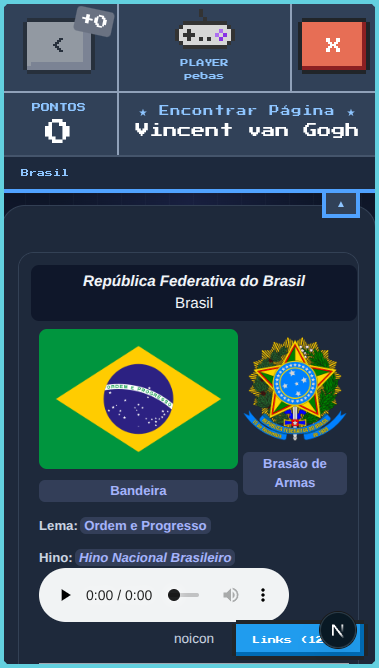
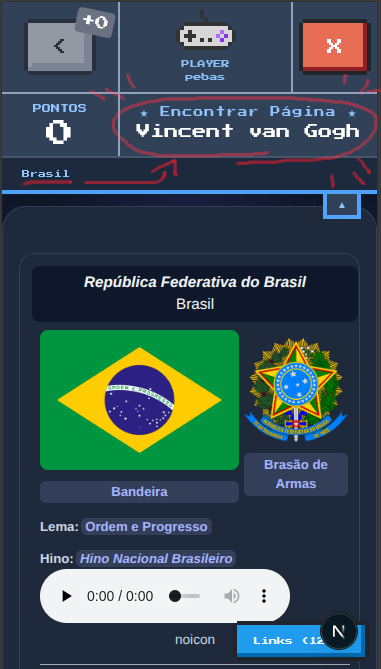
TUTORIAL BABY

diff --git a/app/page.tsx b/app/page.tsx
@@ -9,6 +9,13 @@ import { arrPaginasObjetivo } from "./dados/paginasObjetivo";
 import Footer from "./components/Footer";
 import Image from "next/image";
 
+const imagensTutorial = [
+    "/tutorialImagens/tuto_1.png",
+    "/tutorialImagens/tuto_2.png",
+    "/tutorialImagens/tuto_3.png",
+    "/tutorialImagens/tuto_4.png",
+];
+
 // ==== SEED DO DIA NO FUSO DE BRASÍLIA ==== //
 function seedDeHoje() {
     const d = new Date(new Date().getTime() - 3 * 60 * 60 * 1000);
@@ -75,6 +82,7 @@ export default function HomePage() {
                                     {desafio.objetivo}
                                 </p>
                             </div>
+                            dark:border-white
                             <div className="mt-4 mx-auto">
                                 <Link href="/diario" className="nes-btn is-primary text-[24px] md:text-[24px]">
                                     JOGAR!!
@@ -84,89 +92,88 @@ export default function HomePage() {
                     )}
 
                     {/* COMO JOGAR — só para não logados */}
-                    <div className="nes-container dark:bg-[#212529] dark:border-white" style={{ padding: "1.25rem" }}>
+                    <div className="nes-container  flex flex-col text-[12px] dark:bg-[#212529] dark:border-white">
+                        {/* TITULO COMO JOGAR */}
                         <p className="text-slate-500 dark:text-slate-400 text-[7px] text-center mb-4">COMO JOGAR</p>
-                        <div className="flex flex-col gap-4">
-                            <div className="flex flex-col">
-                                <div className="flex items-start gap-3">
-                                    <span className="text-yellow-500 dark:text-yellow-400 text-[10px] shrink-0">
-                                        1.
-                                    </span>
-                                    <p className="text-slate-800 dark:text-white text-[8px] leading-relaxed">
-                                        Você começa em uma página da Wikipedia e precisa chegar em outra.
+
+                        {/* IMAGENS */}
+                        <div className="grid col-span-3 mx-auto gap-4" style={{ maxWidth: "380px" }}>
+                            <figure className="flex flex-col ">
+                                <figcaption>
+                                    <p className="text-slate-800 dark:text-white leading-relaxed">
+                                        <span className="text-yellow-500 dark:text-yellow-400 text-[10px] shrink-0">
+                                            1.{" "}
+                                        </span>
+                                        Você começa em uma página da Wikipedia e precisa chegar em outra. <br /> <br />
+                                        <span>
+                                            Exemplo: <span className="text-blue-400">Brasil</span> <br />
+                                            Objetivo: <span className="text-blue-400">Vincent van Gogh</span>
+                                        </span>
                                     </p>
-                                </div>
-                                <div className=" flex flex-col" style={{ fontSize: " 9px" }}>
-                                    <p>
-                                        Exemplo: <span className="text-blue-400">Brasil</span>
-                                    </p>
-                                    <p>
-                                        {" "}
-                                        Objetivo: <span className="text-blue-400">Vincent van Gogh</span>
-                                    </p>
-                                </div>
+                                </figcaption>
                                 <Image
+                                    className="m-auto"
                                     src="/tutorialImagens/tuto_1.png"
-                                    width={300}
-                                    height={650}
+                                    width={380}
+                                    height={680}
                                     alt="Exemplo de como jogar"
                                 />
-                            </div>
+                            </figure>
 
-                            <div className="flex flex-col">
-                                <div className="flex items-start gap-3">
-                                    <span className="text-yellow-500 dark:text-yellow-400 text-[10px] shrink-0">
-                                        2.
-                                    </span>
-                                    <p className="text-slate-800 dark:text-white text-[8px] leading-relaxed">
+                            <figure className="flex flex-col">
+                                <figcaption>
+                                    <p className="text-slate-800 dark:text-white leading-relaxed">
+                                        <span className="text-yellow-500 dark:text-yellow-40e shrink-0">2. </span>
                                         Clique nos links para a página que você acha que vai te levar mais perto do
                                         objetivo.
+                                        <span className="text-blue-400">
+                                            Clicando em artistas para tentar encontrar Vincent van Gogh
+                                        </span>
                                     </p>
-                                </div>
-                                <p className=" flex flex-col" style={{ fontSize: " 9px" }}>
-                                    <span className="text-blue-400">
-                                        Clicando em artistas para tentar encontrar Vincent van Gogh
-                                    </span>
-                                </p>
+                                </figcaption>
                                 <Image
-                                    src="/tutorialImagens/artista_palavra_tuto.png"
-                                    width={300}
-                                    height={650}
+                                    className="m-auto"
+                                    src="/tutorialImagens/tuto_2.png"
+                                    width={380}
+                                    height={669}
                                     alt="Exemplo de como jogar"
-                                />{" "}
-                            </div>
-                            <div className="flex flex-col">
-                                <div className="flex items-start gap-3">
-                                    <span className="text-yellow-500 dark:text-yellow-400 text-[10px] shrink-0">
-                                        3.
-                                    </span>
-                                    <p className="text-slate-800 dark:text-white text-[8px] leading-relaxed">
+                                />
+                            </figure>
+                            <figure className="flex flex-col">
+                                <figcaption>
+                                    <p className="text-slate-800 dark:text-white leading-relaxed">
+                                        <span className="text-yellow-500 dark:text-yellow-400 text-[10px] shrink-0">
+                                            3.{" "}
+                                        </span>
                                         Que Sorte! Alí está o link para a página objetivo.
                                     </p>
-                                </div>
+                                </figcaption>
                                 <Image
-                                    src="/tutorialImagens/tuto_artistas.png"
-                                    width={300}
-                                    height={650}
+                                    className="m-auto"
+                                    src="/tutorialImagens/tuto_3.png"
+                                    width={380}
+                                    height={669}
                                     alt="Exemplo de como jogar"
                                 />
-                            </div>
-                            <div className="flex flex-col">
-                                <div className="flex items-start gap-3">
-                                    <span className="text-yellow-500 dark:text-yellow-400 text-[10px] shrink-0">
-                                        4.
-                                    </span>
-                                    <p className="text-slate-800 dark:text-white text-[8px] leading-relaxed">
+                            </figure>
+                            <figure className="flex flex-col">
+                                <figcaption>
+                                    <p className="text-slate-800 dark:text-white leading-relaxed">
+                                        <span className="text-yellow-500 dark:text-yellow-400 text-[10px] shrink-0">
+                                            4.{" "}
+                                        </span>
                                         BOA! E quantos menos cliques, melhor você ficará no ranking dos jogadores!
                                     </p>
-                                </div>
+                                </figcaption>
+
                                 <Image
-                                    src="/tutorialImagens/voce_venceu_tuto.png"
-                                    width={300}
-                                    height={650}
+                                    className="m-auto"
+                                    src="/tutorialImagens/tuto_4.png"
+                                    width={380}
+                                    height={669}
                                     alt="Exemplo de como jogar"
                                 />
-                            </div>
+                            </figure>
                         </div>
                     </div>
 
